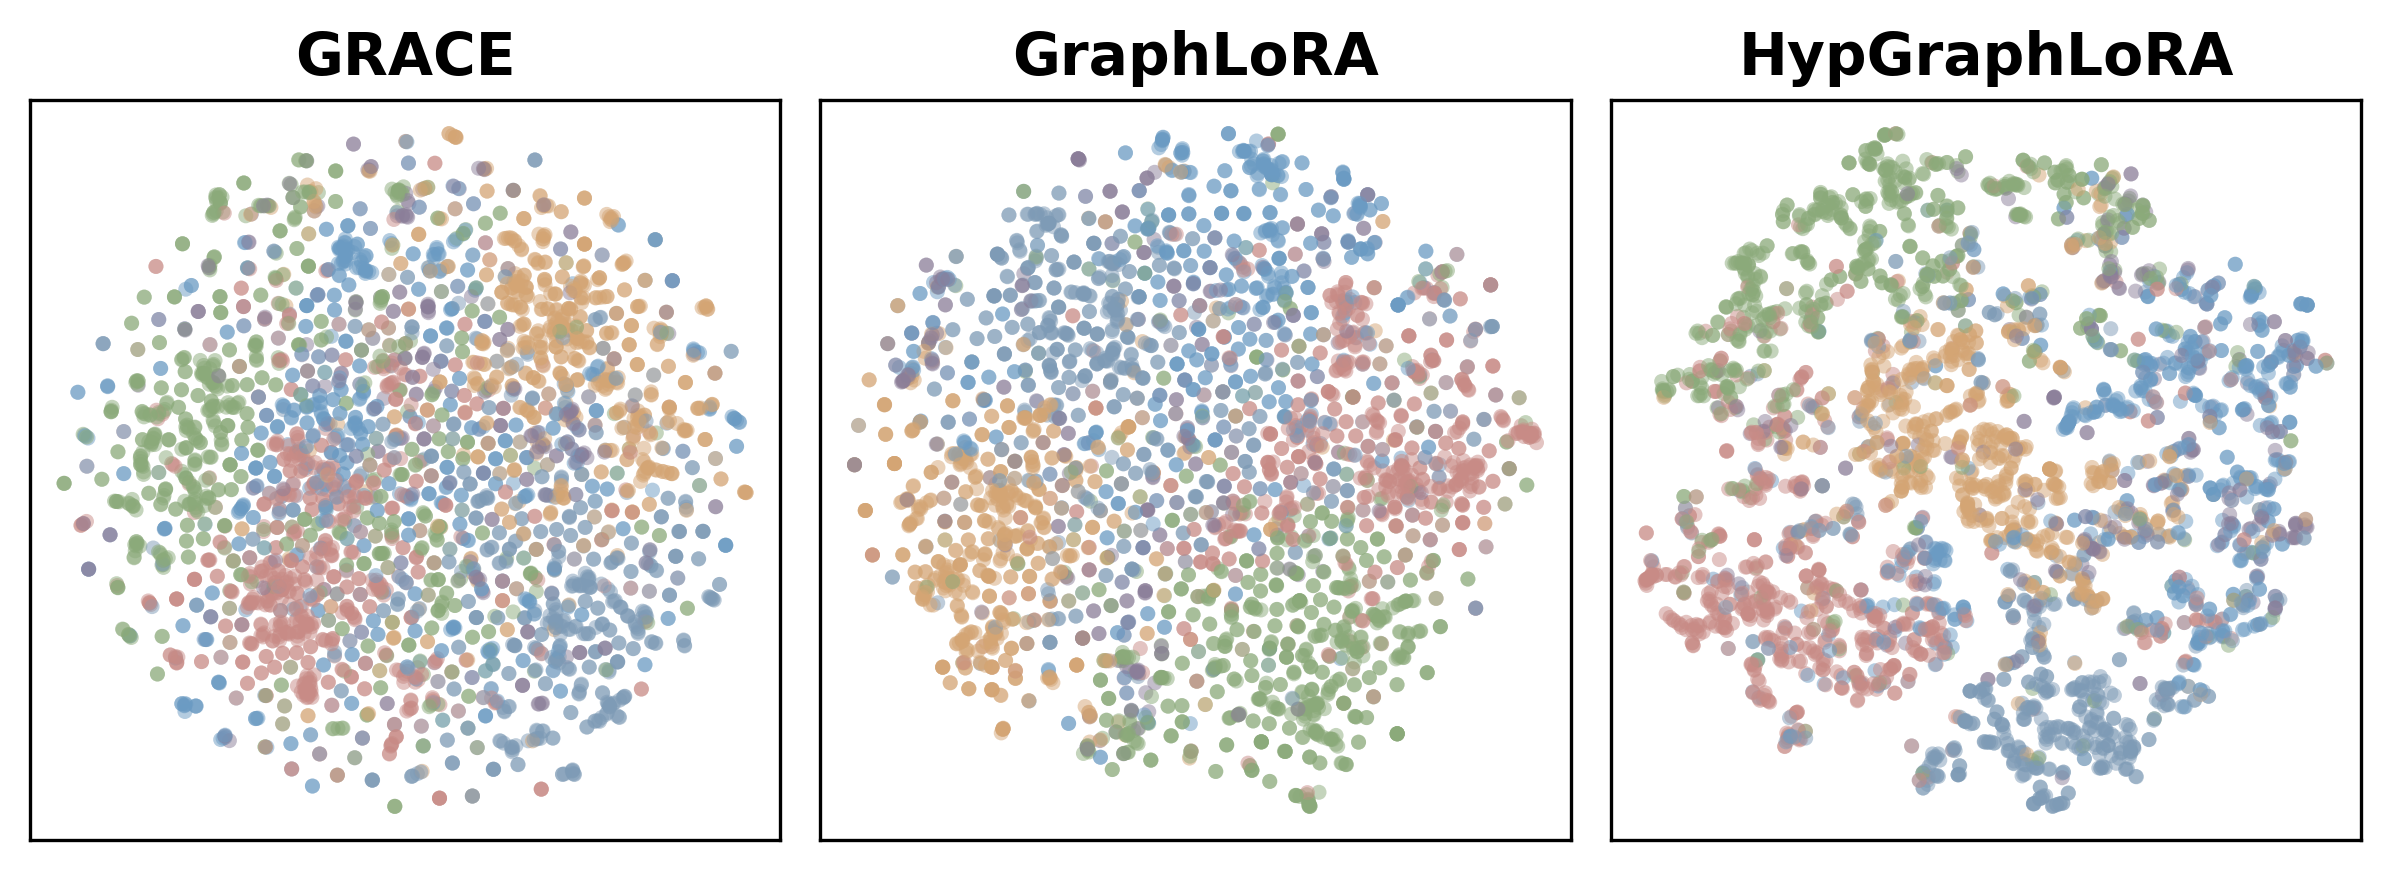
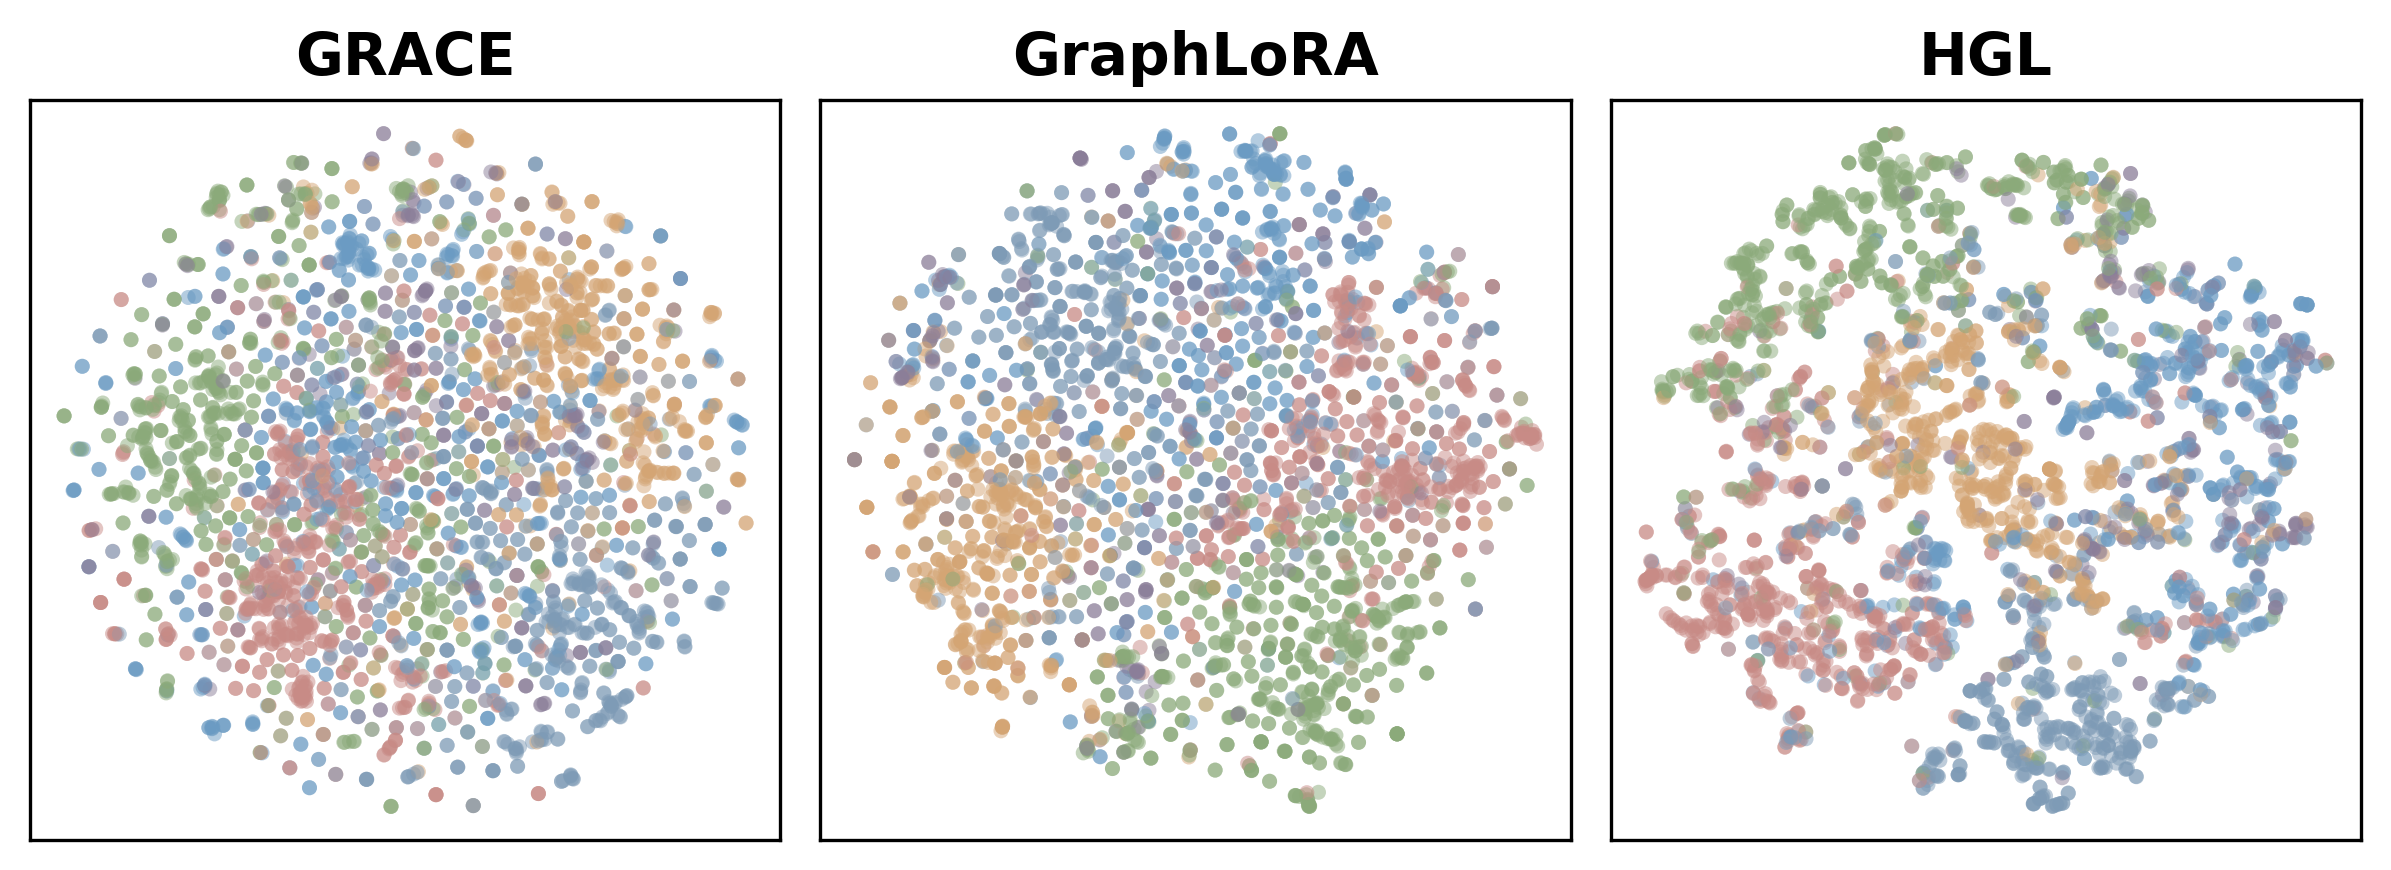
rebut-hete

diff --git a/test_heterophilic_datasets.py b/test_heterophilic_datasets.py
@@ -1,0 +1,72 @@
+#!/usr/bin/env python3
+"""
+Test script to verify heterophilic datasets can be loaded correctly
+"""
+import torch
+from util import get_dataset
+
+def test_dataset(name):
+    print(f"\n{'='*60}")
+    print(f"Testing dataset: {name}")
+    print(f"{'='*60}")
+
+    try:
+        # Load dataset
+        dataset = get_dataset('./data', name)
+        data = dataset[0]
+
+        print(f"✓ Dataset loaded successfully")
+        print(f"  - Number of nodes: {data.num_nodes}")
+        print(f"  - Number of edges: {data.num_edges}")
+        print(f"  - Number of features: {data.num_features}")
+        print(f"  - Number of classes: {dataset.num_classes}")
+
+        # Check if it has predefined splits
+        has_train_mask = hasattr(data, 'train_mask') and data.train_mask is not None
+        has_val_mask = hasattr(data, 'val_mask') and data.val_mask is not None
+        has_test_mask = hasattr(data, 'test_mask') and data.test_mask is not None
+
+        print(f"  - Has train_mask: {has_train_mask}")
+        print(f"  - Has val_mask: {has_val_mask}")
+        print(f"  - Has test_mask: {has_test_mask}")
+
+        # Calculate homophily ratio (edge homophily)
+        edge_index = data.edge_index
+        y = data.y
+        same_class = (y[edge_index[0]] == y[edge_index[1]]).sum().item()
+        homophily = same_class / edge_index.shape[1]
+        print(f"  - Edge homophily ratio: {homophily:.4f}")
+
+        return True
+
+    except Exception as e:
+        print(f"✗ Failed to load dataset: {e}")
+        import traceback
+        traceback.print_exc()
+        return False
+
+if __name__ == '__main__':
+    # Test new heterophilic datasets
+    heterophilic_datasets = ['Chameleon', 'Squirrel', 'Actor', 'Texas']
+
+    print("Testing Heterophilic Datasets")
+    print("="*60)
+
+    results = {}
+    for dataset_name in heterophilic_datasets:
+        results[dataset_name] = test_dataset(dataset_name)
+
+    # Summary
+    print(f"\n{'='*60}")
+    print("Summary:")
+    print(f"{'='*60}")
+    for name, success in results.items():
+        status = "✓ PASS" if success else "✗ FAIL"
+        print(f"  {name}: {status}")
+
+    all_passed = all(results.values())
+    if all_passed:
+        print(f"\n✓ All {len(results)} datasets loaded successfully!")
+    else:
+        failed = [name for name, success in results.items() if not success]
+        print(f"\n✗ {len(failed)} dataset(s) failed: {', '.join(failed)}")

diff --git a/util.py b/util.py
@@ -3,7 +3,7 @@ import torch
 import torch.nn.functional as F
 import torch.nn as nn
 import torch_geometric.transforms as T
-from torch_geometric.datasets import Planetoid, Amazon
+from torch_geometric.datasets import Planetoid, Amazon, WikipediaNetwork, Actor, WebKB
 from torch_geometric.utils import to_dense_adj
 import numpy as np
 import yaml
@@ -32,11 +32,28 @@ def act(act_type='leakyrelu'):
 
 
 def get_dataset(path, name):
-    assert name in ['Cora', 'CiteSeer', 'PubMed', 'Computers', 'Photo']
-    if (name == 'Computers') | (name == 'Photo'):
+    assert name in ['Cora', 'CiteSeer', 'PubMed', 'Computers', 'Photo',
+                    'Chameleon', 'Squirrel', 'Actor', 'Texas']
+
+    # Amazon datasets
+    if name in ['Computers', 'Photo']:
         return Amazon(path, name, T.NormalizeFeatures())
-    else:
+
+    # Planetoid datasets (homophilic)
+    elif name in ['Cora', 'CiteSeer', 'PubMed']:
         return Planetoid(path, name, transform=T.NormalizeFeatures())
+
+    # WikipediaNetwork datasets (heterophilic)
+    elif name in ['Chameleon', 'Squirrel']:
+        return WikipediaNetwork(path, name, transform=T.NormalizeFeatures())
+
+    # Actor dataset (heterophilic)
+    elif name == 'Actor':
+        return Actor(path, transform=T.NormalizeFeatures())
+
+    # WebKB datasets (heterophilic)
+    elif name == 'Texas':
+        return WebKB(path, name, transform=T.NormalizeFeatures())
 
 
 def initialize_weights(m):
